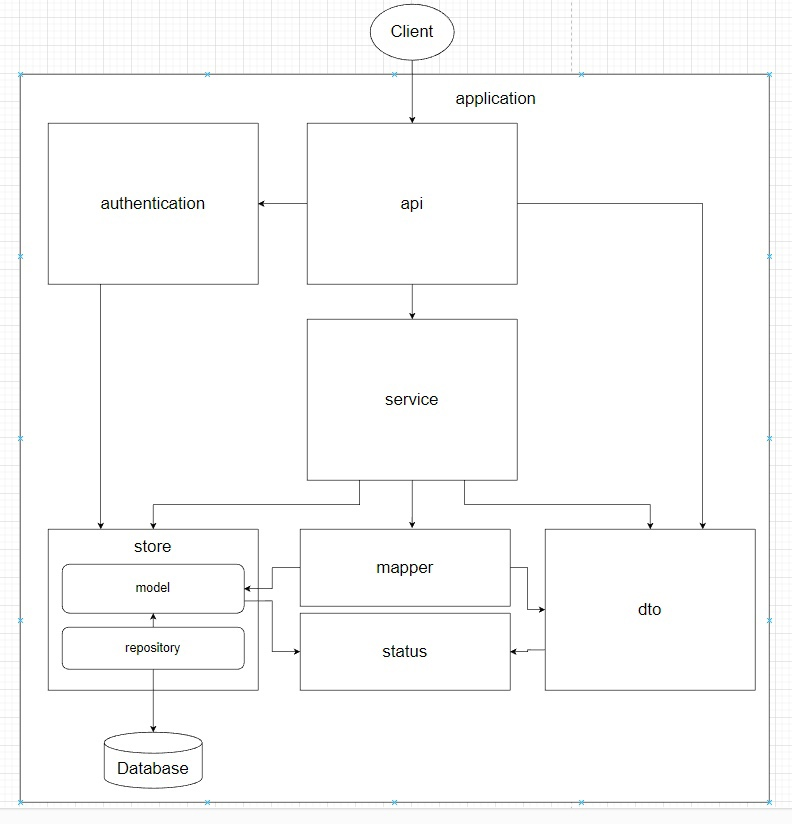
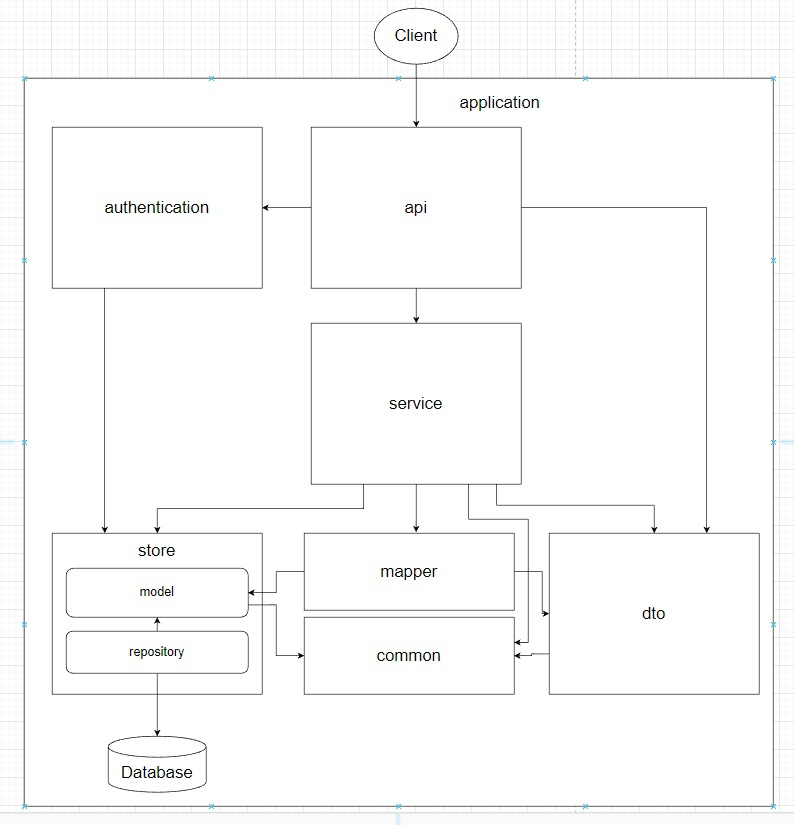
fix: rename status module to common

diff --git a/README.md b/README.md
@@ -20,17 +20,18 @@
   данных из модуля [repository](./store/repository). По завершению выполнения операции из модуля [service](./service)
   возвращается объект модуля [dto](./dto), описывающий результат выполнения операции.
 * Модуль [model](./store/model) представляет классы, описывающие сущности хранящиеся в хранилище данных. Для описания
-  таблиц, значения которых заранее определены и фиксированы используется модуль [status](./status)
+  таблиц, значения которых заранее определены и фиксированы используется модуль [common](./common)
 * Модуль [repository](./store/repository) представляет собой интерфейс взаимодействия с хранилищем данных и описывает
   допустимые операции, которые можно производить над хранилищем данных(например выборка или добавление данных). Для
   описания сущностей, хранящихся в хранилище данных используются классы из модуля [model](./store/model)
-  и [status](./status)
-* Модуль [status](./status) предназначен для описания таблиц, значения которых заранее определены и фиксированы
+  и [common](./common)
+* Модуль [common](./common) реализует некоторые служебные сущности, которые могут быть использованы в нескольких 
+модулях
 * Модуль [mapper](./mapper) предоставляет функциональность конвертации сущностей из модуля [model](./store/model) в
   сущности [dto](./dto) и обратно
 
 ## Блоки задач
-* Разработка модуля [status](./status)
+* Разработка модуля [common](./common)
 * Разработка модуля [store](./store)
 * Разработка модуля [dto](./dto)
 * Разработка модуля [mapper](./mapper)
